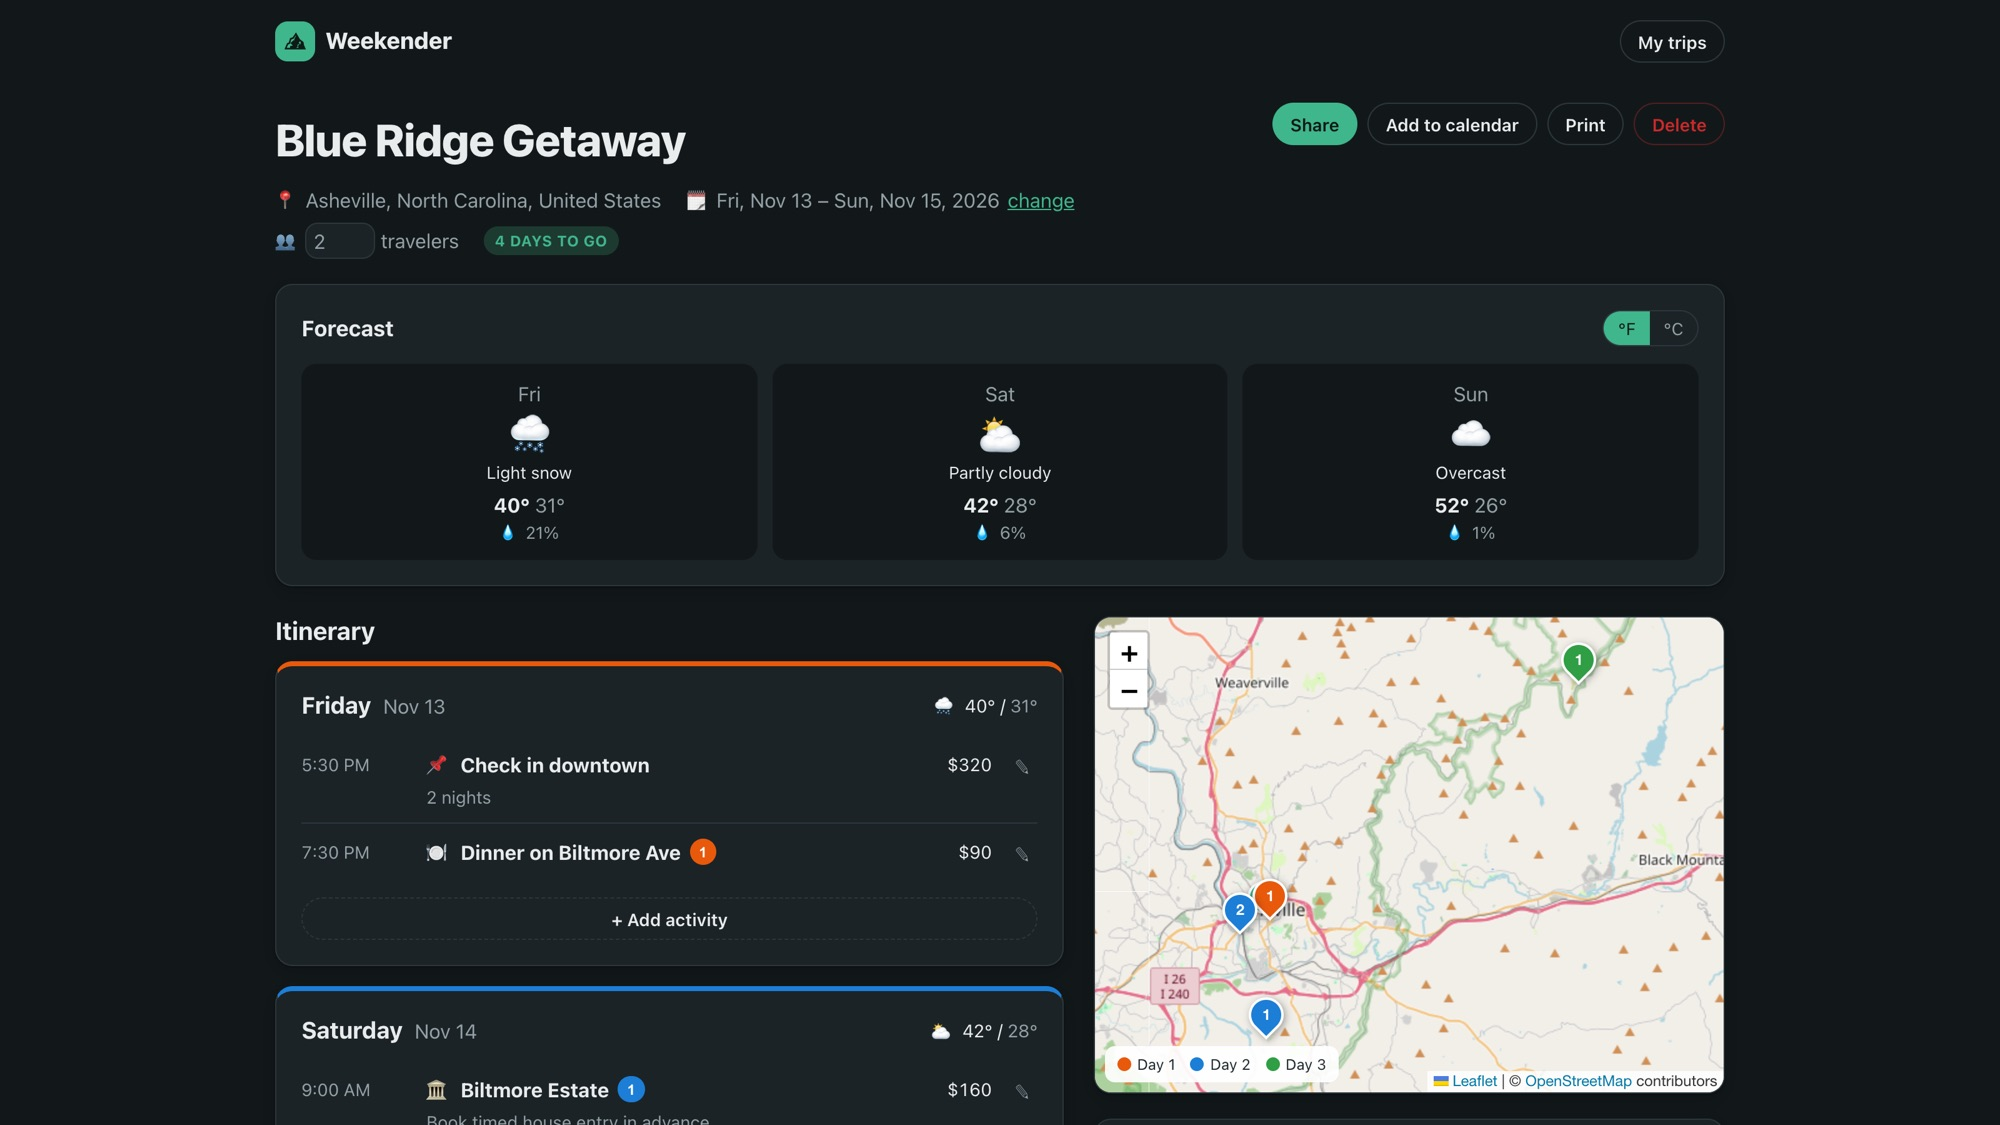
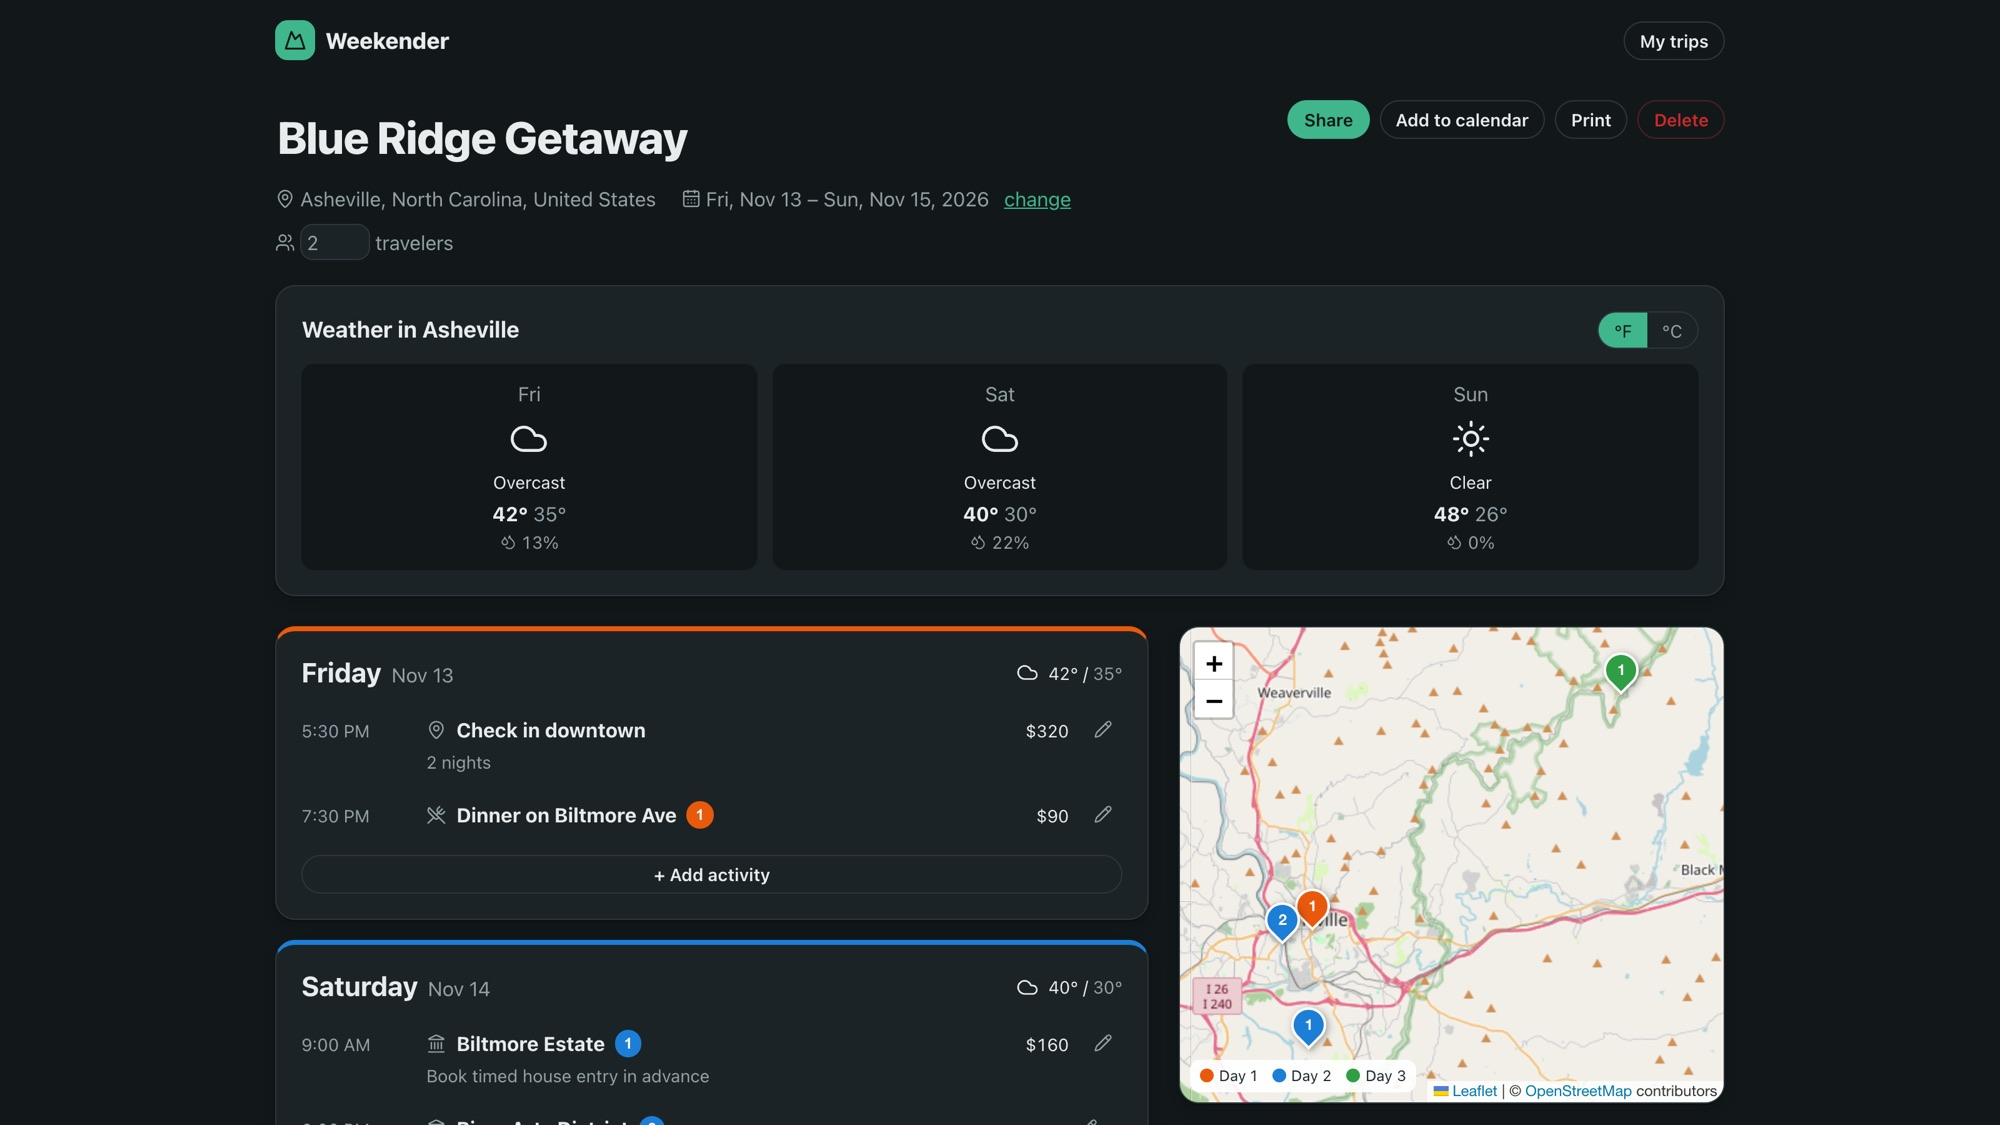
Add Fridge Scanner and refresh project screenshots
- New Fridge Scanner project with a recipes-screen preview, live link and code
- Retake Weekender and ESL Lesson Planner screenshots after their redesigns
- ESL description mentions the lesson timeline
- Skills: add Gemini API and Cloudflare Workers

diff --git a/index.html b/index.html
@@ -542,8 +542,8 @@
             </p>
             <p data-reveal>
               Outside of work I build free tools for real problems: an interactive map of 24 animal species
-              backed by a self-refreshing data pipeline, a weekend trip planner, an ESL lesson planner, and a
-              personalized newsletter.
+              backed by a self-refreshing data pipeline, a weekend trip planner, an ESL lesson planner, a
+              personalized newsletter, and an app that turns what's in your fridge into recipes.
             </p>
           </div>
           <ul class="facts" data-reveal>
@@ -621,11 +621,11 @@
         </div>
         <div data-reveal>
           <h3 class="mono">Data &amp; AI</h3>
-          <p>Palantir Foundry, Dataiku, Databricks, MySQL, Claude API, OpenAI API, generative AI, prompt engineering</p>
+          <p>Palantir Foundry, Dataiku, Databricks, MySQL, Claude API, Gemini API, OpenAI API, generative AI, prompt engineering</p>
         </div>
         <div data-reveal>
           <h3 class="mono">Web &amp; Cloud</h3>
-          <p>React, Next.js, Tailwind CSS, Flask, .NET, MapLibre GL JS, Leaflet, AWS, Cloudflare, GitHub Pages, GitHub Actions</p>
+          <p>React, Next.js, Tailwind CSS, Flask, .NET, MapLibre GL JS, Leaflet, AWS, Cloudflare Workers, GitHub Pages, GitHub Actions</p>
         </div>
         <div data-reveal>
           <h3 class="mono">Tools</h3>
@@ -733,6 +733,28 @@
 
       <div class="works">
         <article class="work">
+          <a class="shot" data-clip data-cursor="Open" href="https://prestoj01.github.io/Fridge-Scanner/" target="_blank" rel="noopener" aria-label="Open Fridge Scanner">
+            <img src="images/fridge-scanner.jpg" alt="Fridge Scanner showing six healthy recipes, starting with a spinach and tomato omelette that uses only ingredients on hand" width="2000" height="1125" loading="lazy" />
+          </a>
+          <div class="work-text" data-reveal>
+            <h3 class="project-name">Fridge Scanner</h3>
+            <div class="project-kind mono">Personal project · Fall 2026</div>
+            <p class="project-desc">
+              Turns what's in your fridge or pantry into healthy recipes with step-by-step instructions, and
+              shows what you'd still need to buy. It's built to read photos with a Gemini vision model behind
+              a Cloudflare Worker that holds the API key, rate limits requests, and validates the model's
+              output. The live demo runs in offline mode: you type your ingredients and it matches them
+              against a built-in recipe library.
+            </p>
+            <div class="project-stack">React · TypeScript · Vite · Cloudflare Workers · Gemini API · Vitest</div>
+            <div class="project-links">
+              <a href="https://prestoj01.github.io/Fridge-Scanner/" target="_blank" rel="noopener" class="link arrow">Live site</a>
+              <a href="https://github.com/Prestoj01/Fridge-Scanner" target="_blank" rel="noopener" class="link arrow">Code</a>
+            </div>
+          </div>
+        </article>
+
+        <article class="work">
           <a class="shot" data-clip data-cursor="Open" href="https://prestoj01.github.io/weekend-trip-planner/" target="_blank" rel="noopener" aria-label="Open Weekender">
             <img src="images/weekend-trip-planner.jpg" alt="Weekender sample trip to Asheville with a three-day forecast, itinerary and map of stops" width="2000" height="1125" loading="lazy" />
           </a>
@@ -754,15 +776,16 @@
 
         <article class="work">
           <a class="shot" data-clip data-cursor="Open" href="https://prestoj01.github.io/teaching-english-planner/" target="_blank" rel="noopener" aria-label="Open ESL Lesson Planner">
-            <img src="images/teaching-english-planner.jpg" alt="A generated A2 lesson plan on the present perfect, with aims, form, meaning and concept-check questions" width="2000" height="1125" loading="lazy" />
+            <img src="images/teaching-english-planner.jpg" alt="A generated A2 lesson plan on the present perfect, with a timeline of six timed stages, aims and language analysis" width="2000" height="1125" loading="lazy" />
           </a>
           <div class="work-text" data-reveal>
             <h3 class="project-name">ESL Lesson Planner</h3>
             <div class="project-kind mono">Personal project · Fall 2026</div>
             <p class="project-desc">
               Generates complete, editable CELTA-style lesson plans for English teachers from a topic, CEFR level,
-              and the learners' first language. Plans come from an offline template engine or, optionally,
-              Claude with the teacher's own API key, both validated against one shared schema.
+              and the learners' first language, with a timeline showing how the minutes are spent. Plans come
+              from an offline template engine or, optionally, Claude with the teacher's own API key, both
+              validated against one shared schema.
             </p>
             <div class="project-stack">React · TypeScript · Zod · Claude API · Vitest · GitHub Pages</div>
             <div class="project-links">
